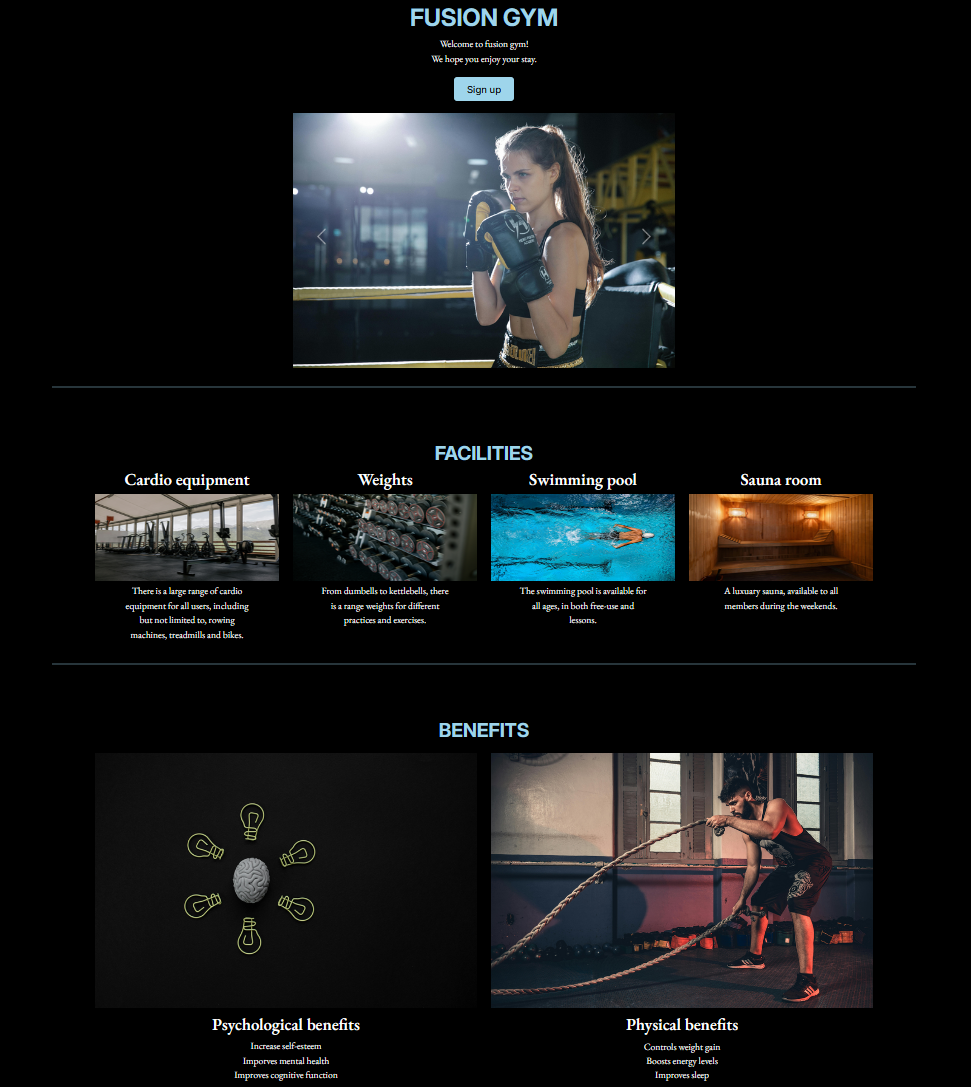
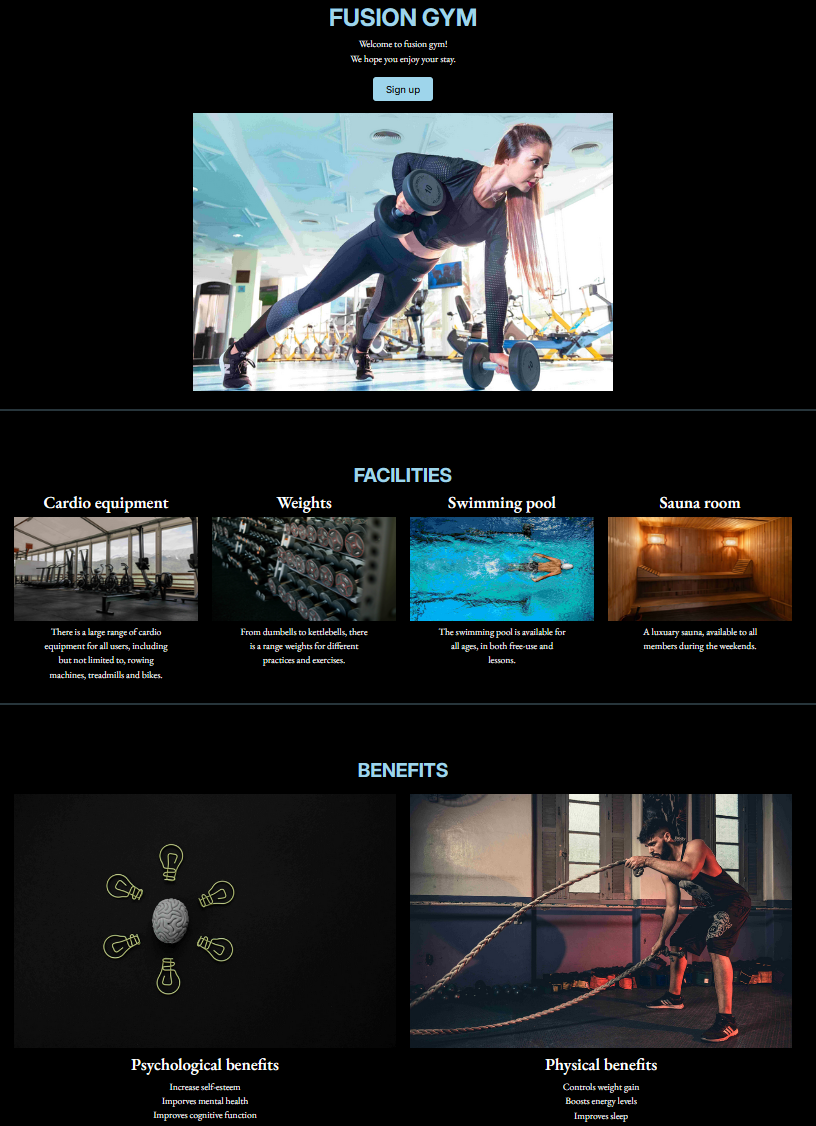
Add margin to signup, fix spelling

diff --git a/assets/css/style.css b/assets/css/style.css
@@ -375,6 +375,10 @@ main p {
     display: flex;
     justify-content: space-evenly;
   }
+
+  #booking-form div{
+    margin-bottom: 45px;
+  }
 }
 
 /* for 768px screens and below (laptop) */
@@ -410,6 +414,6 @@ main p {
 /* for 1200px screens and above (xl screen) */
 @media screen and (min-width: 1200px) {
   #facilities img {
-    height: auto;
+    height: 174px;
   }
 }

diff --git a/signup.html b/signup.html
@@ -99,7 +99,7 @@
               </div>
               <div class="col-12">
                 <button id="book-button" type="submit" class="button-style wide-button">
-                  Sumbit form
+                  Submit form
                 </button>
               </div>  
             </div>
